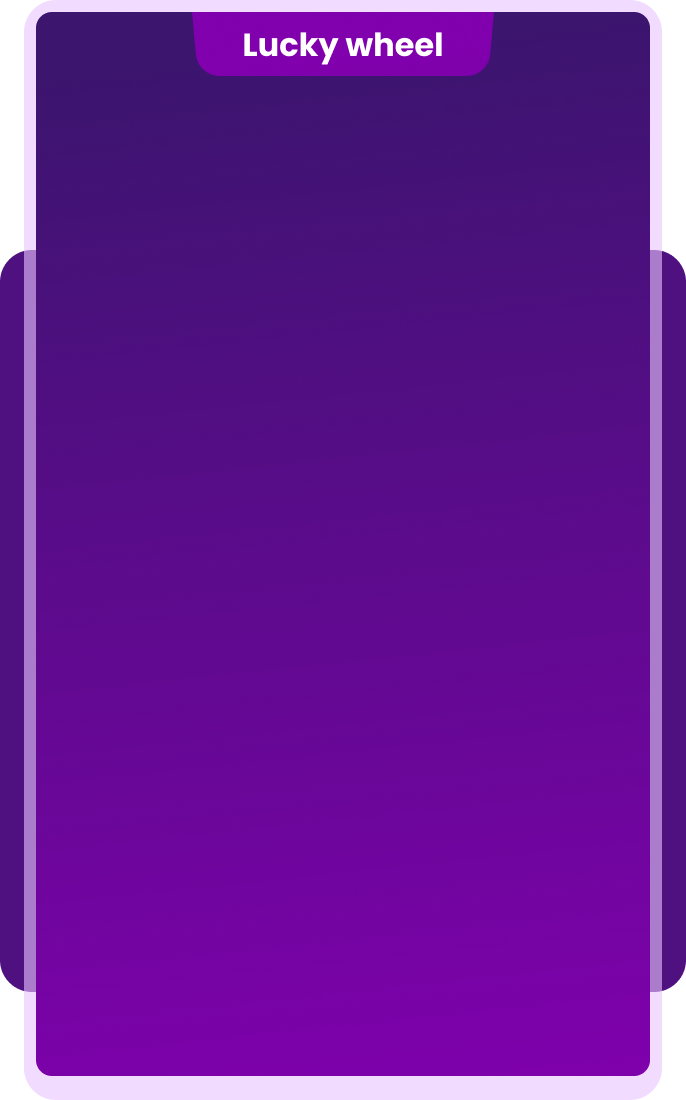
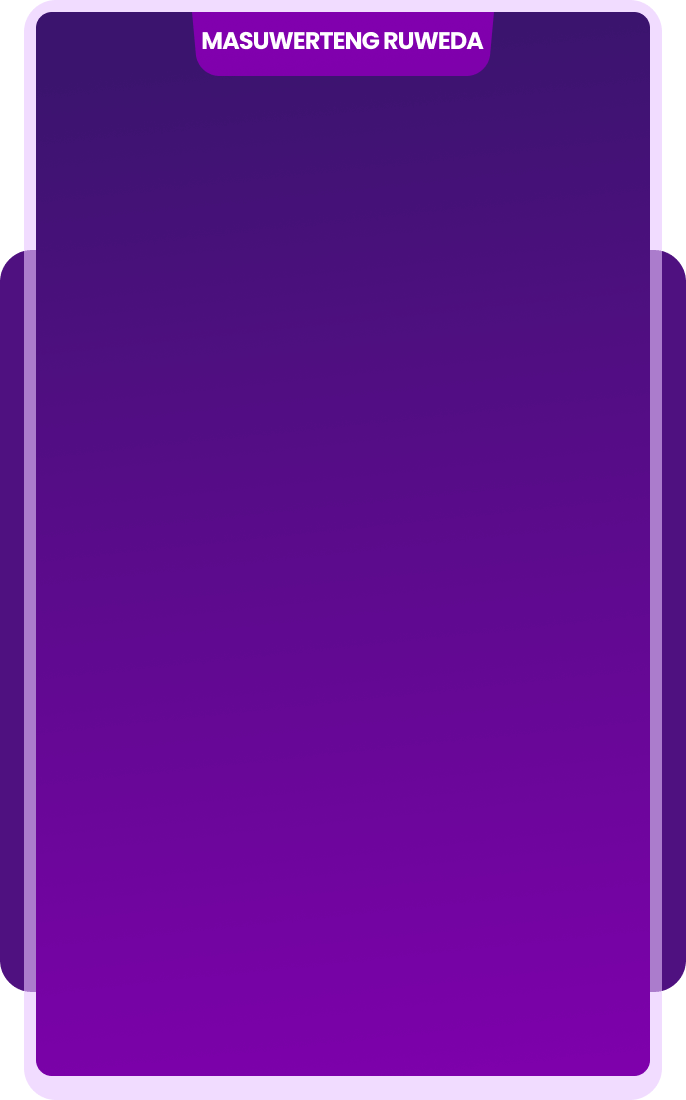
fix: [ph1] Translate graphics

Changed region(s): [[0.2755, 0.0309, 0.7041, 0.0618]]

diff --git a/ph1-static-v1/src/components/hotpromo/spin-lucky-wheel/CashOutPopup.vue b/ph1-static-v1/src/components/hotpromo/spin-lucky-wheel/CashOutPopup.vue
@@ -27,7 +27,7 @@ import CommonButton from "./CommonButton.vue";
 import GradientTextAmount from "./GradientTextAmount.vue";
 import ProgressBar from "./ProgressBar.vue";
 import InviteWins from "./InviteWins.vue";
-import { userStore } from "@/stores/index";
+import { userStore } from "stores/index";
 
 const store = userStore();
 const props = defineProps(["modelValue"]);

diff --git a/ph1-static-v1/src/components/hotpromo/spin-lucky-wheel/EnvelopeStage.vue b/ph1-static-v1/src/components/hotpromo/spin-lucky-wheel/EnvelopeStage.vue
@@ -184,6 +184,7 @@ onUnmounted(() => {
         font-weight: 900;
         color: #8100ae;
         text-align: center;
+        letter-spacing: -1px;
       }
 
       .withdraw-btn {
@@ -193,6 +194,7 @@ onUnmounted(() => {
         width: 80%;
         transform: translate(-50%, -50%);
         margin: 0 auto;
+        font-size: 12px;
       }
 
       .remaining-time {

diff --git a/ph1-static-v1/src/components/hotpromo/spin-lucky-wheel/WheelStage.vue b/ph1-static-v1/src/components/hotpromo/spin-lucky-wheel/WheelStage.vue
@@ -143,7 +143,7 @@ import { useQuasar } from "quasar";
 import ProgressBar from './ProgressBar.vue';
 import CashOutPopup from "./CashOutPopup.vue";
 import GradientTextAmount from "./GradientTextAmount.vue";
-import { userStore } from "@/stores/index";
+import { userStore } from "stores/index";
 
 const emit = defineEmits(["reload"]);
 const props = defineProps(["info"]);

diff --git a/ph1-static-v1/src/components/hotpromo/spin-lucky-wheel/ProgressBar.vue b/ph1-static-v1/src/components/hotpromo/spin-lucky-wheel/ProgressBar.vue
@@ -12,7 +12,7 @@
 </template>
 <script setup>
 import { computed, inject } from "vue";
-import { userStore } from "@/stores/index";
+import { userStore } from "stores/index";
 
 const store = userStore();
 const props = defineProps(['isShowDetails']);
